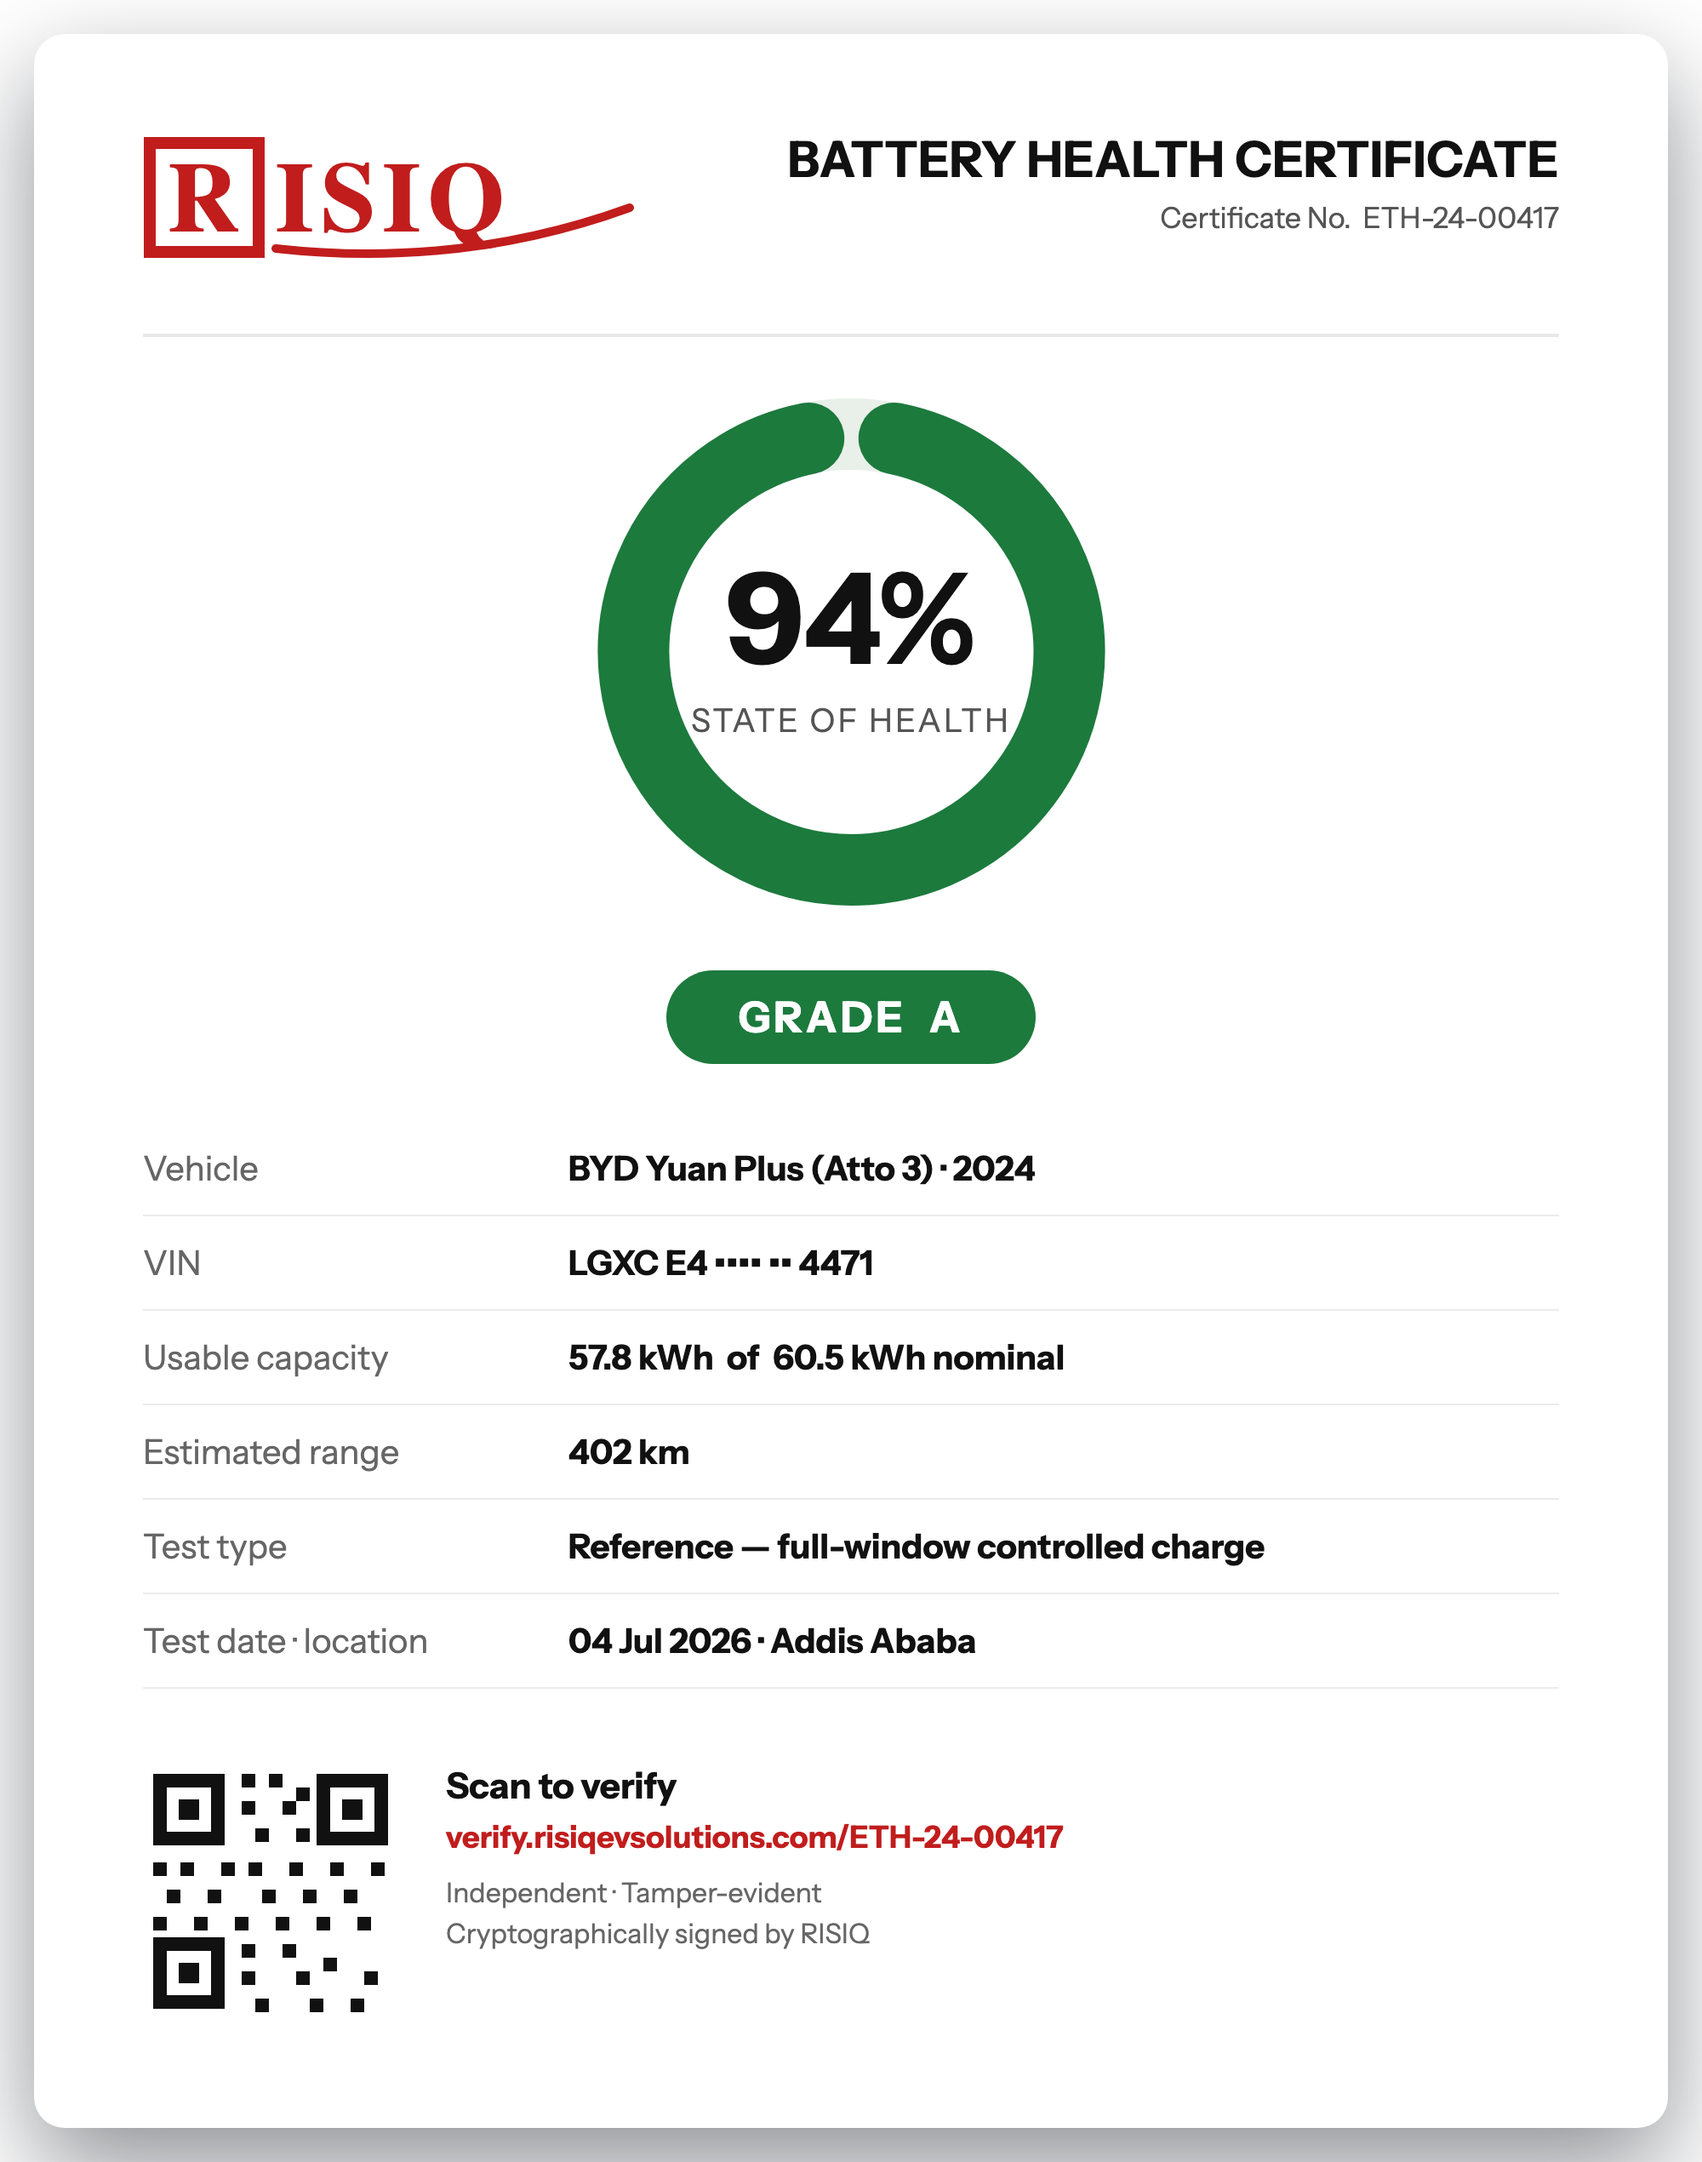
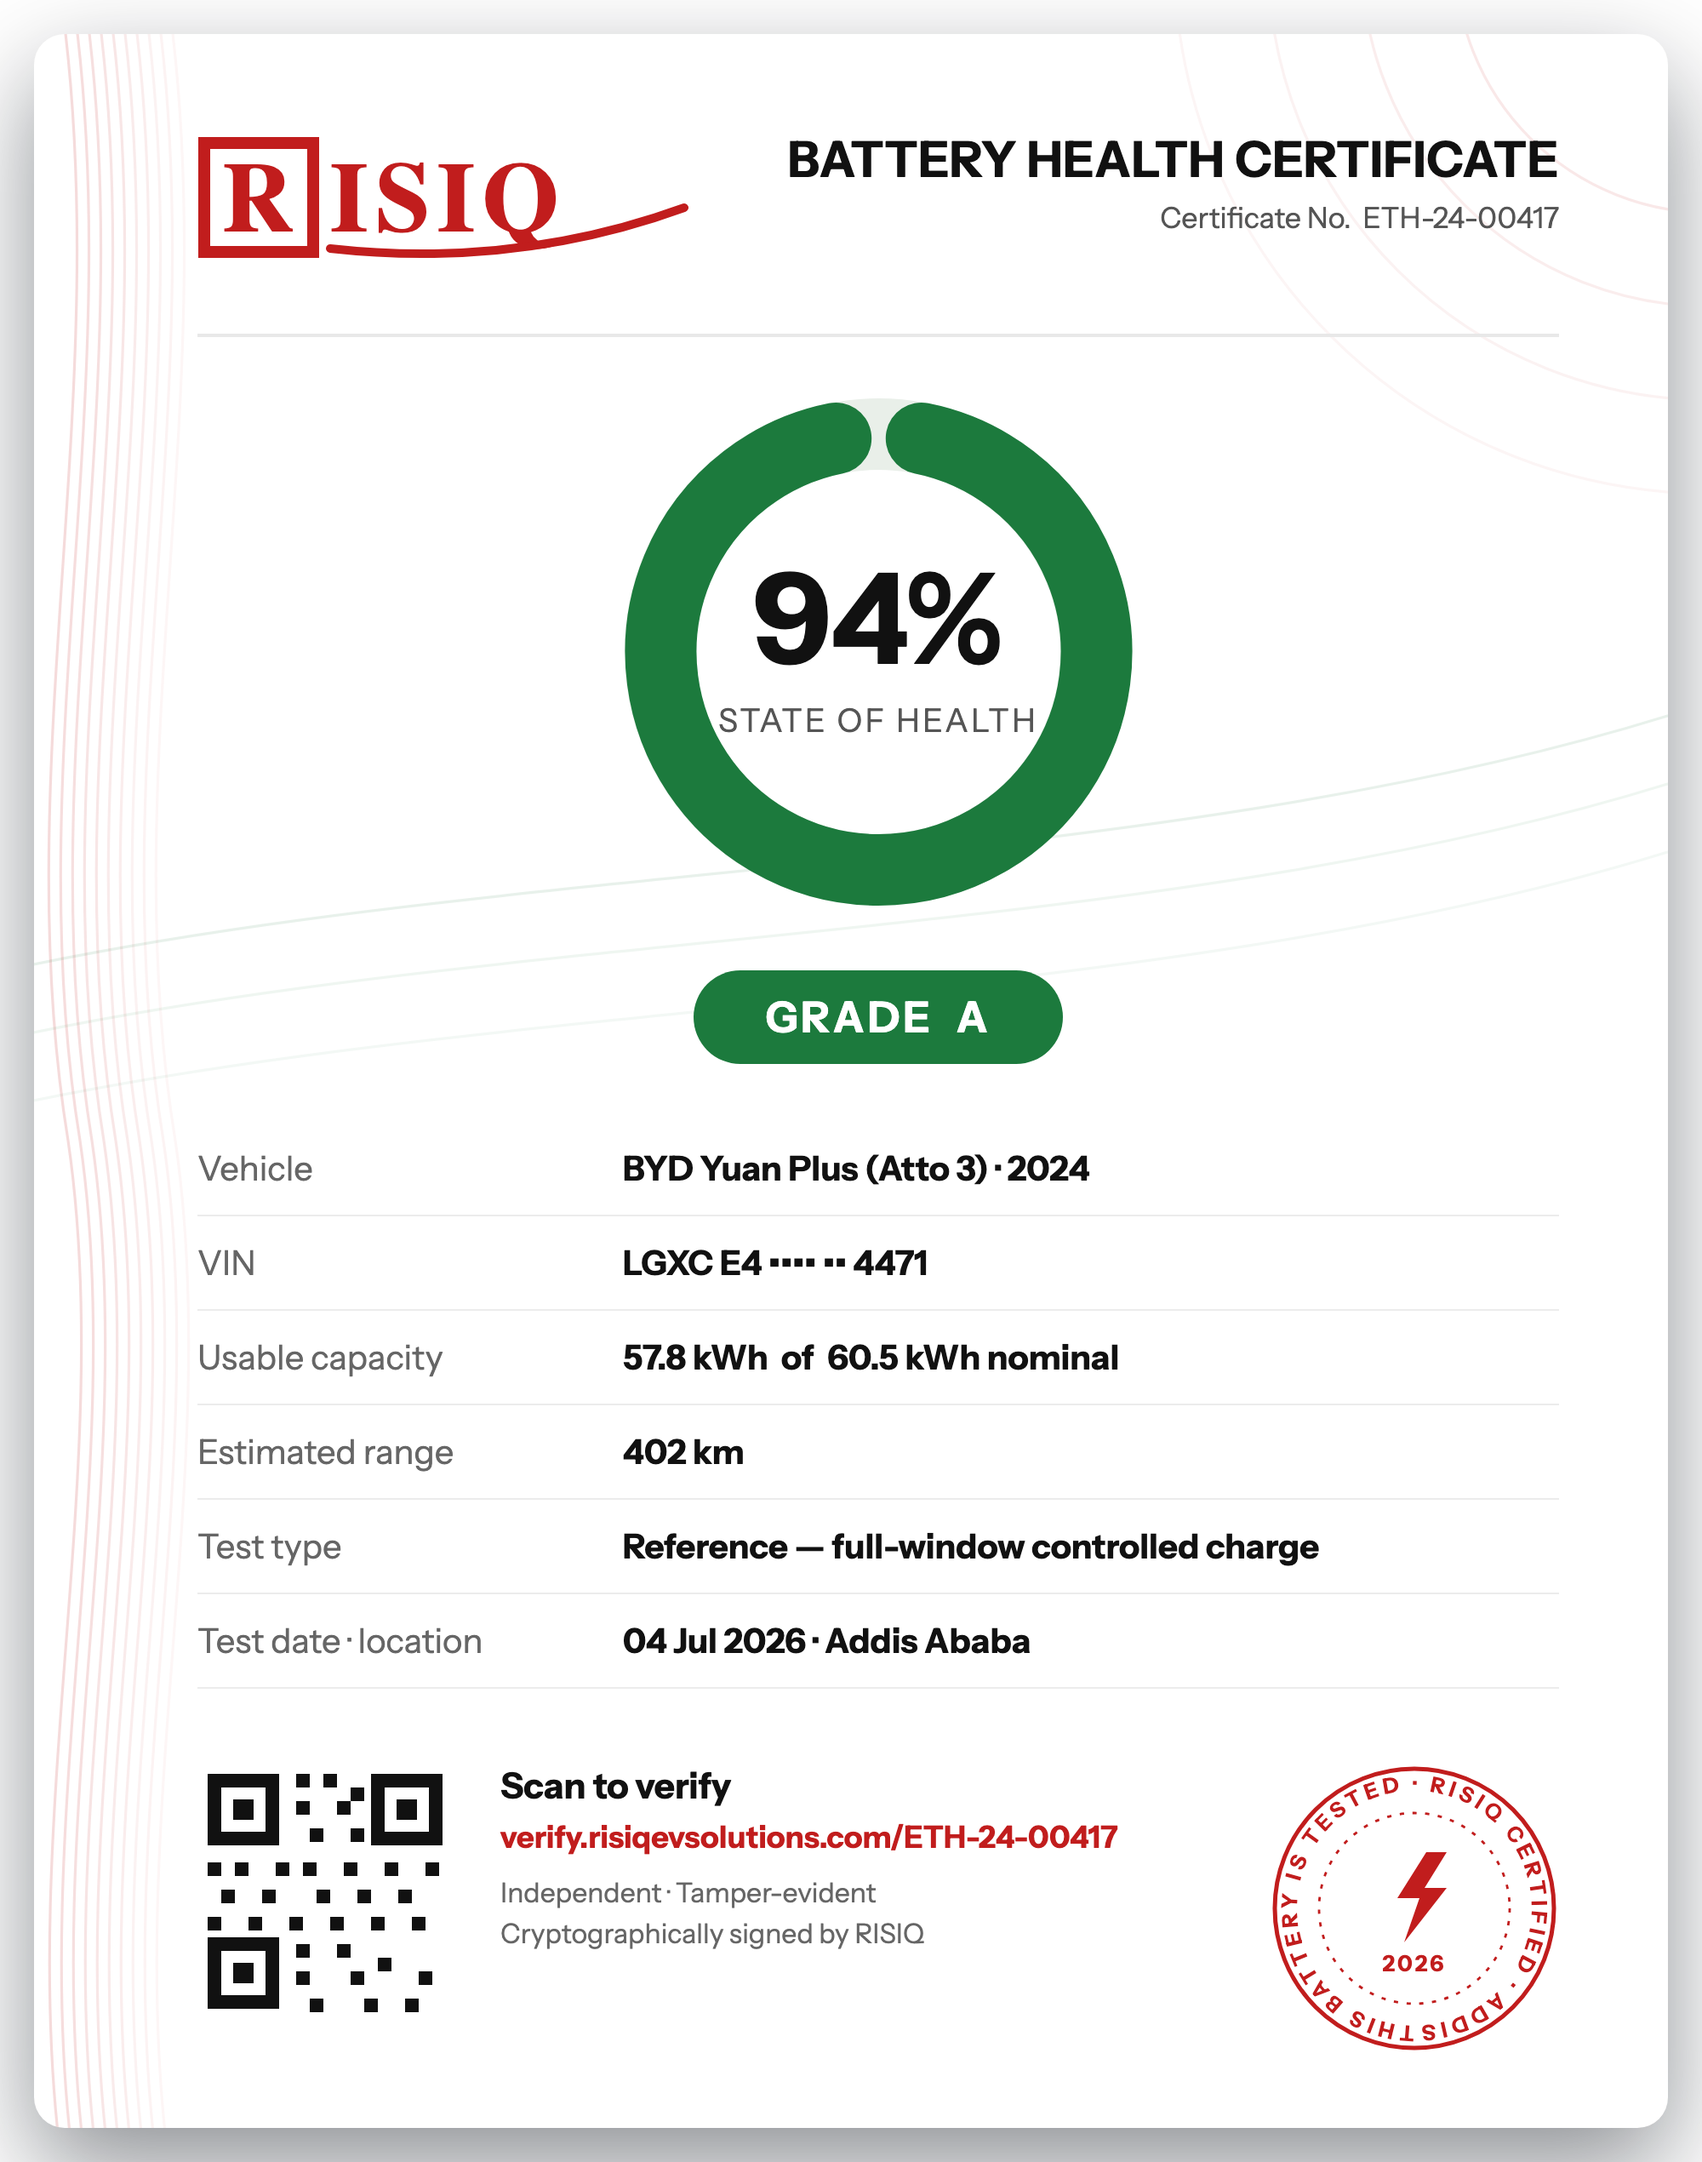
Swap hero to real charging close-up; add engraved curves to certificate
Replace the Addis composite with a real EV-charging close-up photo
(Ivan Radic, CC BY 2.0) matching the requested reference style. Restyle
the certificate with AVILOO-inspired security ornaments: fine-line wave
band, concentric corner arcs, sweep lines behind the gauge, and a
circular RISIQ CERTIFIED seal with curved text.

diff --git a/index.html b/index.html
@@ -10,7 +10,7 @@
 <meta property="og:type" content="website">
 <meta property="og:url" content="https://risiqevsolutions.com/">
 <meta property="og:title" content="RISIQ EV Solutions — EV Battery Health Certification for Ethiopia">
-<meta property="og:image" content="https://risiqevsolutions.com/assets/img/hero-addis.jpg">
+<meta property="og:image" content="https://risiqevsolutions.com/assets/img/hero-charging.jpg">
 <meta property="og:description" content="Independent, engineering-grade EV battery-health certification for Ethiopia's electric fleet — built for locked, imported EVs no OEM tool can read.">
 <link rel="icon" type="image/svg+xml" href="assets/img/favicon.svg">
 <link rel="preconnect" href="https://fonts.googleapis.com">
@@ -67,8 +67,8 @@
         </div>
       </div>
       <figure class="hero-figure reveal" style="margin:64px 0 0;">
-        <img src="assets/img/hero-addis.jpg" alt="A BYD Atto 3 charging at a RISIQ test unit against the Addis Ababa skyline" width="1600" height="1000">
-        <figcaption style="padding:10px 18px; font-size:0.72rem; color:#8496ad; border-top:1px solid #1d3350; background:#0c1626;">BYD Atto 3 — the best-selling EV on Ethiopian roads. Photos: Hubert Berberich · DFID (CC BY), composited.</figcaption>
+        <img src="assets/img/hero-charging.jpg" alt="Close-up of an electric car charging — connector plugged into the charge port" width="1280" height="853">
+        <figcaption style="padding:10px 18px; font-size:0.72rem; color:#8496ad; border-top:1px solid #1d3350; background:#0c1626;">Every charge session is a measurement opportunity. Photo: Ivan Radic (CC BY 2.0).</figcaption>
       </figure>
     </div>
   </section>
